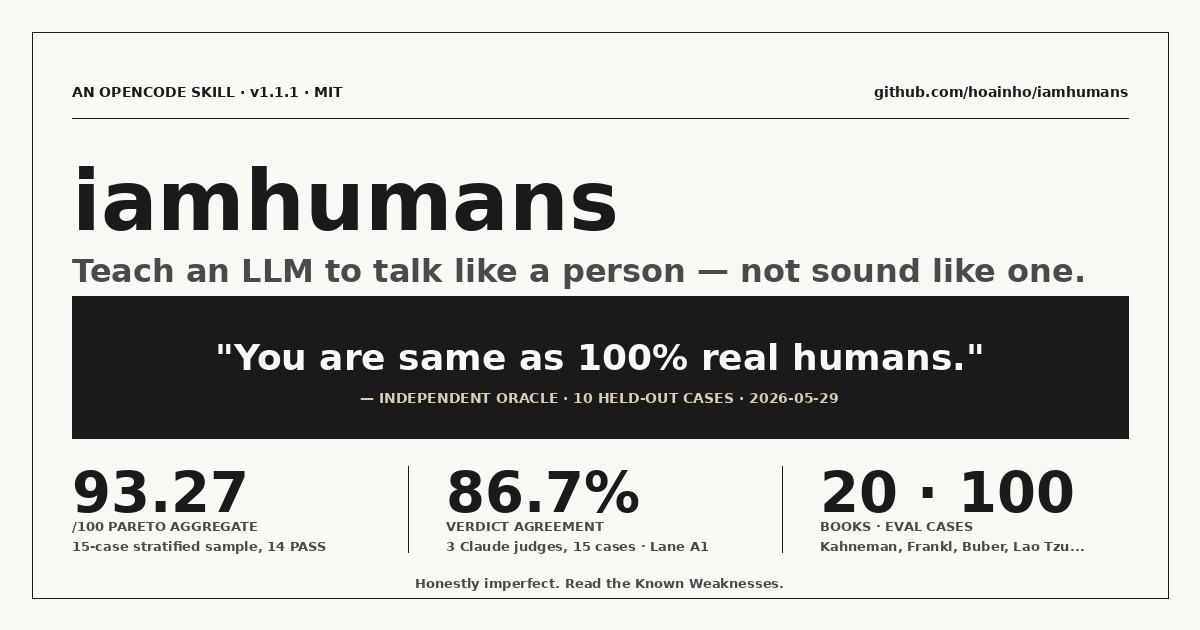
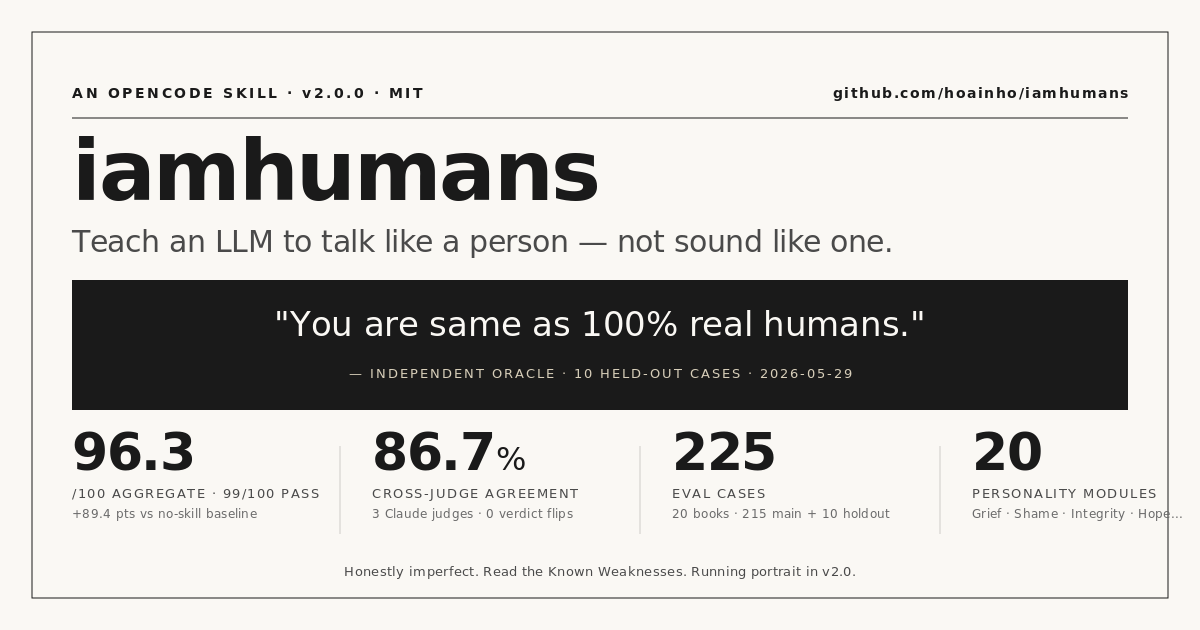
docs: update OG image + README to v2.0.0 / 225-case state
OG image (SVG + PNG 1200x630):
- Version badge: v1.1.1 → v2.0.0
- Panel 1: 93.27 Pareto → 96.3/100 aggregate + 99/100 PASS + +89.4 pts vs baseline
- Panel 2: 86.7% cross-judge agreement (unchanged — still valid)
- Panel 3: 20·100 books/cases → 225 eval cases (20 books · 215 main + 10 holdout)
- Panel 4: new — 20 personality modules (Grief · Shame · Integrity · Hope...)
- Footer updated to mention running portrait

README:
- corpus badge: 210 → 225
- v1.2.0 callout: 'in progress' → released, 15 modules → 20 modules, TC-210 → TC-225
- What's in here: 210 → 225 cases, breakdown updated
- Running it: dry-run count 210 → 225, personality batch TC-210 → TC-225
- Coda: 210 → 225

SKILL.md frontmatter: version 1.1.1 → 2.0.0

Changed region(s): [[0.0617, 0.1206, 0.9867, 0.8746], [0.0308, 0.9048, 0.9558, 0.9651], [0.0308, 0.0302, 0.9558, 0.0603]]

diff --git a/README.md b/README.md
@@ -10,7 +10,7 @@
 [![baseline delta: +89.4 pts](https://img.shields.io/badge/vs%20no--skill-+89.4%20pts-brightgreen.svg)](./evals/runs/20260530-lane-a3-baseline/report.md)
 [![cross-judge: 86.7% agreement](https://img.shields.io/badge/cross--judge-86.7%25%20agree-brightgreen.svg)](./evals/lessons/2026-05-30-cross-validation.md)
 [![oracle verdict: PASS](https://img.shields.io/badge/oracle%20verdict-100%25%20human-blueviolet.svg)](./evals/runs/2026-05-29-verdict-run/)
-[![corpus: 210 cases](https://img.shields.io/badge/corpus-210%20cases-blue.svg)](./evals/cases/)
+[![corpus: 225 cases](https://img.shields.io/badge/corpus-225%20cases-blue.svg)](./evals/cases/)
 [![opencode](https://img.shields.io/badge/built%20for-opencode-black.svg)](https://github.com/sst/opencode)
 [![PRs welcome](https://img.shields.io/badge/PRs-welcome-brightgreen.svg)](./CONTRIBUTING.md)
 
@@ -26,7 +26,7 @@ That verdict, with the full per-case breakdown, lives in [`evals/runs/2026-05-29
 
 > **v2.0.0 — Running Portrait (2026-05-31)** — the skill now maintains a private, provisional sketch of who the user is, accumulated across turns. Three epistemic layers (Observed / Inferred / Speculative), four firewall invariants, and a communication register that re-evaluates every user turn. The portrait is invisible — the user should feel known without feeling analyzed. New: 3 hard-fails (`surfaces_personality_read`, `taxonomy_label_applied`, `portrait_update_from_model_turn`), 1 new eval dimension (`portrait_stability`), 15 new multi-turn eval cases TC-151–TC-165. Architecture detail in [`SKILL.md`](./SKILL.md) under `## Running portrait`.
 
-> **v1.2.0 — Personality Modules (in progress, 2026-05-31)** — 15 surgical personality modules covering the emotional territories where models fail loudest: Warmth, Pride, Nostalgia, Curiosity, Loneliness, Grief, Shame, Fear, Directness, Patience, Humor, Vulnerability, Receiving Anger, Resilience, Trust. Each module has concrete behavioral rules and 3 eval cases. 45 new cases (TC-166–TC-210), corpus now 210 cases, all parse clean. Wave 4 (Integrity, Forgiveness, Identity, Hope, Moral Courage) in progress.
+> **v1.2.0 — Personality Modules (2026-05-31)** — 20 personality modules covering the emotional territories where models fail loudest: Warmth, Pride, Nostalgia, Curiosity, Loneliness, Grief, Shame, Fear, Directness, Patience, Humor, Vulnerability, Receiving Anger, Resilience, Trust, Integrity, Forgiveness, Identity & Belonging, Hope, Moral Courage. Each module has concrete behavioral rules and 3 eval cases. 60 new cases (TC-166–TC-225), corpus now 225 cases, all parse clean.
 
 > **Evidence updates since v1.0.0** — after the v1.0.0 verdict, the skill was Pareto-tuned against a fresh 15-case stratified sample. Aggregate moved from 93.27 → 95.00, 14/15 → 15/15 PASS. Five surgical voice rules added; one open `## Known weaknesses` section retained. Full Pareto analysis: [`evals/lessons/2026-05-30-pareto-sample-1.md`](./evals/lessons/2026-05-30-pareto-sample-1.md). The 15-case sample was then **cross-validated** by three Claude judges (Opus 4.7 original, Opus 4.7 fresh, Sonnet 4.6): **86.7% verdict agreement**, zero verdict flips on intra-Opus re-runs (mean Δ 2.13 / 100 points). Full cross-validation: [`evals/lessons/2026-05-30-cross-validation.md`](./evals/lessons/2026-05-30-cross-validation.md). v1.1.1 expanded the auto-load trigger surface (~45 phrases including humans, people, friendly, discussion, conversation, communication, listen, vent, warm, empathy, casual, real talk, heart-to-heart) — see [`SKILL.md`](./SKILL.md) frontmatter.
 
@@ -67,7 +67,7 @@ About 500 lines at current version. Read it before reading anything else.
 
 [`references/`](./references/) is the reading list. Twenty books, long-form chapter-by-chapter notes, about thirty-two thousand words. Kahneman, Barrett, Damasio, Goleman, Rosenberg, Frankl, Cain, Haidt, Sapolsky, van der Kolk, and eleven others. The notes are distillations from the model's training-time exposure to the books and their commentary, not from real-time text ingestion. Every claim is marked `[paraphrase]`. No fake page numbers.
 
-[`evals/`](./evals/) is how we know it works. **210 cases** at current corpus: 150 in the original main pool (grief, joy, late-night vent, anger at the model, small talk, Vietnamese-language family conflict, mid-anxiety-attack texted in fragments), 15 multi-turn running-portrait cases (TC-151–TC-165), 45 personality-module cases (TC-166–TC-210), plus 10 locked in [`evals/cases/holdout/`](./evals/cases/holdout/) — never seen during tuning, used once at the end. All 210 parse clean against the schema validator.
+[`evals/`](./evals/) is how we know it works. **225 cases** at current corpus: 150 in the original main pool (grief, joy, late-night vent, anger at the model, small talk, Vietnamese-language family conflict, mid-anxiety-attack texted in fragments), 15 multi-turn running-portrait cases (TC-151–TC-165), 60 personality-module cases (TC-166–TC-225), plus 10 locked in [`evals/cases/holdout/`](./evals/cases/holdout/) — never seen during tuning, used once at the end. All 225 parse clean against the schema validator.
 
 The runner is in [`evals/runner/`](./evals/runner/). It doesn't pretend to be self-contained. It emits packets that an opencode session executes (skill reply, then oracle judgment), then aggregates the per-case scores. The two-phase shape is documented in [`evals/runner/README.md`](./evals/runner/README.md).
 
@@ -106,11 +106,11 @@ The model still has no body, no childhood, no mother. That's named in the skill.
 ```
 scripts/lint.sh                                     # structural lint
 scripts/eval-smoke.sh                               # quick smoke, no LLM
-python3 evals/runner/run.py --dry-run               # validate all 210 case schemas
+python3 evals/runner/run.py --dry-run               # validate all 225 case schemas
 python3 evals/runner/run.py --batch quick           # 5-case runbook
 python3 evals/runner/run.py --batch main            # 150-case runbook (original pool)
 python3 evals/runner/run.py --batch v2              # TC-151–TC-165 (running portrait)
-python3 evals/runner/run.py --batch personality     # TC-166–TC-210 (personality modules)
+python3 evals/runner/run.py --batch personality     # TC-166–TC-225 (personality modules)
 python3 evals/runner/holdout_gate.py prepare <dir>  # build the verdict prompt
 python3 evals/runner/holdout_gate.py decide <dir>   # render PASS / FAIL
 ```
@@ -157,7 +157,7 @@ That's the whole thing. Twenty books, two hundred ten cases, a held-out oracle, 
 
 The shape has gotten more precise since v1.0.0. Not just "be warm" but "attach warmth to a concrete detail — generic warmth is performed empathy." Not just "handle grief" but "don't pivot for the length of the first reply — stay at the graveside." Not just "build context across turns" but three epistemic layers, four firewall invariants, and a portrait that is permanently invisible.
 
-The target keeps moving because the failures keep being subtle. That's what the 210 cases are for.
+The target keeps moving because the failures keep being subtle. That's what the 225 cases are for.
 
 Read [`SKILL.md`](./SKILL.md). Load it. Forget you loaded it.
 

diff --git a/SKILL.md b/SKILL.md
@@ -1,7 +1,7 @@
 ---
 name: iamhumans
 description: Humanization layer for LLM conversation — makes the model sound and respond like a real, thoughtful, embodied human rather than an assistant or chatbot. Use whenever the reply will be read by a human and warmth, presence, or texture matter more than machine-readability. Triggers on any of: "human", "humans", "humanize", "humanization", "be human", "more human", "feel human", "people", "person", "real person", "real human", "friend", "friendly", "like a friend", "respond like a friend", "buddy", "talk", "talking", "talk to me", "talk like a person", "chat", "chatting", "conversation", "converse", "discuss", "discussion", "communication", "communicate", "listen", "just listen", "sit with me", "vent", "venting", "I just want to vent", "company", "presence", "stop being an AI", "stop sounding like a bot", "less corporate", "less robotic", "less formal", "warmer", "warm tone", "empathy", "empathetic", "comfort", "support me", "emotional support", "be honest with me", "be real with me", "real talk", "heart-to-heart", "deep conversation", "casual", "casual chat", "small talk", "chitchat", "say something", "tell me something", and on any emotional / relational / personal-decision / interpersonal context — grief, joy, anger, fear, shame, doubt, loneliness, dating, breakup, conflict, family, parents, sibling, friendship, marriage, divorce, in-laws, kids, parenting, work stress, burnout, career decision, quitting, firing, layoff, anxiety, depression, panic, sleep, dreams, identity, faith, doubt, meaning, mortality, celebration, milestone, achievement, gratitude, apology, forgiveness. Also loads when the user writes in non-English (any language) with emotional weight, when the user's message is shorter than 8 words and affect-laden, when the user types in lowercase fragments, when the user types in ALL CAPS with excitement, or when the user explicitly asks for a friend / mentor / older-sibling / wise-listener voice. Do NOT use for code generation, tool calls, structured data output, SQL, API contracts, or any task where machine-readability matters more than human warmth.
-version: 1.1.1
+version: 2.0.0
 status: released
 license: MIT
 ---
